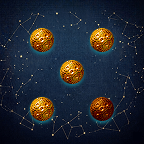
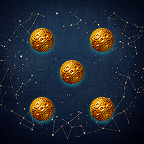
feat: add Dragon dice skin with score-256 unlock condition
- Register dragon skin in dice-skins.js, dice.js, i18n.js
- Add unlockAtExactScore condition: unlock when player finishes with exactly 256 points
- Track score-based achievements in stats.achievements (server-side)
- Pass achievements to skin selector (app.js)
- Update dragon die image (Group 18.png)

Changed region(s): [[0.6111, 0.6667, 0.8056, 0.8611]]

diff --git a/js/dice-skins.js b/js/dice-skins.js
@@ -29,7 +29,8 @@
     { id: 'carbon',    name: 'Carbon',    unlockAt: -1, unlockBy: 'gambler' },
     { id: 'wave',      name: 'Wave',      unlockAt: -1, unlockBy: 'wave' },
     { id: 'fire',      name: 'Fire',      unlockAt: -1, unlockAtStreak: 5 },
-    { id: 'star',      name: 'Star',      unlockAt: -1, unlockAtBotWinsTotal: 100 }
+    { id: 'star',      name: 'Star',      unlockAt: -1, unlockAtBotWinsTotal: 100 },
+    { id: 'dragon',    name: 'Dragon',    unlockAt: -1, unlockAtExactScore: 256 }
   ];
 
   // Calligraphy characters for Crimson skin
@@ -44,15 +45,15 @@
     return SKIN_DEFS[0];
   }
 
-  function getUnlockedCount(totalGames, botWins, totalWins, maxStreak) {
+  function getUnlockedCount(totalGames, botWins, totalWins, maxStreak, achievements) {
     var count = 0;
     for (var i = 0; i < SKIN_DEFS.length; i++) {
-      if (isSkinUnlocked(SKIN_DEFS[i], totalGames, botWins, totalWins, maxStreak)) count++;
+      if (isSkinUnlocked(SKIN_DEFS[i], totalGames, botWins, totalWins, maxStreak, achievements)) count++;
     }
     return count;
   }
 
-  function isSkinUnlocked(def, totalGames, botWins, totalWins, maxStreak) {
+  function isSkinUnlocked(def, totalGames, botWins, totalWins, maxStreak, achievements) {
     if (def.unlockBy) {
       var wins = (botWins && botWins[def.unlockBy]) || 0;
       return wins >= BOT_WIN_THRESHOLD;
@@ -68,12 +69,15 @@
     if (def.unlockAtStreak) {
       return (maxStreak || 0) >= def.unlockAtStreak;
     }
+    if (def.unlockAtExactScore) {
+      return !!(achievements && achievements['score' + def.unlockAtExactScore]);
+    }
     return totalGames >= def.unlockAt;
   }
 
-  function isUnlocked(skinId, totalGames, botWins, totalWins, maxStreak) {
+  function isUnlocked(skinId, totalGames, botWins, totalWins, maxStreak, achievements) {
     var def = getSkinDef(skinId);
-    return isSkinUnlocked(def, totalGames, botWins, totalWins, maxStreak);
+    return isSkinUnlocked(def, totalGames, botWins, totalWins, maxStreak, achievements);
   }
 
   function applySkin(skinId) {
@@ -128,13 +132,14 @@
     if (callback) callback(cached || 'classic');
   }
 
-  function renderSkinSelector(containerEl, totalGames, botWins, totalWins, maxStreak, currentStreak) {
+  function renderSkinSelector(containerEl, totalGames, botWins, totalWins, maxStreak, currentStreak, achievements) {
     if (!containerEl) return;
     totalGames = totalGames || 0;
     totalWins = totalWins || 0;
     botWins = botWins || {};
     maxStreak = maxStreak || 0;
     currentStreak = currentStreak || 0;
+    achievements = achievements || {};
 
     var playContainer = document.getElementById('skin-options-play');
     var botContainer = document.getElementById('skin-options-bot');
@@ -144,16 +149,16 @@
     playContainer.innerHTML = '';
     botContainer.innerHTML = '';
 
-    var unlockedCount = getUnlockedCount(totalGames, botWins, totalWins, maxStreak);
+    var unlockedCount = getUnlockedCount(totalGames, botWins, totalWins, maxStreak, achievements);
     var countEl = document.getElementById('skin-unlock-count');
     if (countEl) {
       var I18n = window.YachtGame.I18n;
-      countEl.textContent = (unlockedCount - 1) + '/11 ' + (I18n ? I18n.t('skin_unlocked_count') : 'unlocked');
+      countEl.textContent = (unlockedCount - 1) + '/12 ' + (I18n ? I18n.t('skin_unlocked_count') : 'unlocked');
     }
 
     for (var i = 0; i < SKIN_DEFS.length; i++) {
       var def = SKIN_DEFS[i];
-      var unlocked = isSkinUnlocked(def, totalGames, botWins, totalWins, maxStreak);
+      var unlocked = isSkinUnlocked(def, totalGames, botWins, totalWins, maxStreak, achievements);
       var targetContainer = (def.unlockBy || def.unlockAtBotWinsTotal) ? botContainer : playContainer;
 
       var option = document.createElement('div');
@@ -192,6 +197,12 @@
         img.className = 'fire-preview';
         img.alt = 'Fire 5';
         miniDie.appendChild(img);
+      } else if (def.id === 'dragon') {
+        var img = document.createElement('img');
+        img.src = 'die_image/dragon/Group 13.png';
+        img.className = 'dragon-preview';
+        img.alt = 'Dragon 1';
+        miniDie.appendChild(img);
       } else {
         // Render 5 pips in mini format
         var pipPositions = [1, 3, 5, 7, 9]; // value 5 layout
@@ -228,6 +239,8 @@
           var botTotal = 0;
           if (botWins) { for (var bk in botWins) { if (botWins.hasOwnProperty(bk)) botTotal += botWins[bk]; } }
           progressEl.textContent = (I18n ? I18n.t('skin_bot_total') : 'Bot') + ' ' + botTotal + '/' + def.unlockAtBotWinsTotal + ' ' + (I18n ? I18n.t('skin_wins_count') : 'wins');
+        } else if (def.unlockAtExactScore) {
+          progressEl.textContent = (I18n ? I18n.t('skin_exact_score') : 'Score') + ' ' + def.unlockAtExactScore;
         } else if (def.unlockAtStreak) {
           progressEl.textContent = currentStreak + '/' + def.unlockAtStreak + ' ' + (I18n ? I18n.t('skin_streak') : 'streak');
         } else if (def.unlockAtWins) {
@@ -274,6 +287,9 @@
       html += '<img class="wave-preview" src="die_image/wave/wave' + value + '.png" alt="Wave ' + value + '">';
     } else if (skinId === 'fire') {
       html += '<img class="fire-preview" src="die_image/fire/fire' + value + '.png" alt="Fire ' + value + '">';
+    } else if (skinId === 'dragon') {
+      var DRAGON_CUBE_FILES = { 1: 'Group 13', 2: 'Group 15', 3: 'Group 16', 4: 'Group 17', 5: 'Group 18', 6: 'Group 19' };
+      html += '<img class="dragon-preview" src="die_image/dragon/' + DRAGON_CUBE_FILES[value] + '.png" alt="Dragon ' + value + '">';
     } else {
       var positions = MINI_PIP_LAYOUTS[value] || [];
       for (var p = 1; p <= 9; p++) {

diff --git a/functions/index.js b/functions/index.js
@@ -803,6 +803,11 @@ async function saveBotResult(uid, gameMode, botDifficulty, myScore, oppScore, re
         else stats.ties = (stats.ties || 0) + 1;
         stats.currentStreak = 0;
       }
+      // Score-based achievements
+      if (myScore === 256) {
+        if (!stats.achievements) stats.achievements = {};
+        stats.achievements.score256 = true;
+      }
       return stats;
     });
   }
@@ -972,6 +977,11 @@ exports.onGameFinished = functions.region("asia-southeast1")
             if (result === "loss") stats.losses = (stats.losses || 0) + 1;
             else stats.ties = (stats.ties || 0) + 1;
             stats.currentStreak = 0;
+          }
+          // Score-based achievements
+          if (myTotal === 256) {
+            if (!stats.achievements) stats.achievements = {};
+            stats.achievements.score256 = true;
           }
           return stats;
         });

diff --git a/js/dice.js b/js/dice.js
@@ -85,6 +85,17 @@
       return;
     }
 
+    // Dragon skin: show image instead of pips
+    if (DiceSkins && DiceSkins.getCurrentSkin() === 'dragon') {
+      var DRAGON_FILES = { 1: 'Group 13', 2: 'Group 15', 3: 'Group 16', 4: 'Group 17', 5: 'Group 18', 6: 'Group 19' };
+      var img = document.createElement('img');
+      img.src = 'die_image/dragon/' + DRAGON_FILES[value] + '.png';
+      img.className = 'dragon-die-img';
+      img.alt = value;
+      dieEl.appendChild(img);
+      return;
+    }
+
     var layout = PIP_LAYOUTS[value];
     for (var i = 1; i <= 9; i++) {
       var pip = document.createElement('div');

diff --git a/js/i18n.js b/js/i18n.js
@@ -36,6 +36,7 @@
       skin_bot_total: 'Bot',
       skin_vs_bot: 'vs',
       skin_streak: 'streak',
+      skin_exact_score: 'Score',
       my_stats: '\uD83D\uDCCA Stats',
       back_to_login: 'Back to Login',
       feedback: 'Feedback',
@@ -297,6 +298,7 @@
       skin_bot_total: '\uBD07',
       skin_vs_bot: 'vs',
       skin_streak: '\uc5f0\uc2b9',
+      skin_exact_score: '\uc810\uc218',
       my_stats: '\uD83D\uDCCA \ub0b4 \uc804\uc801',
       back_to_login: '\ub85c\uadf8\uc778\uc73c\ub85c \ub3cc\uc544\uac00\uae30',
       feedback: '\ud53c\ub4dc\ubc31',

diff --git a/js/app.js b/js/app.js
@@ -274,8 +274,9 @@
       var botWins = (stats && stats.botWins) || {};
       var maxStreak = (stats && stats.maxStreak) || 0;
       var currentStreak = (stats && stats.currentStreak) || 0;
+      var achievements = (stats && stats.achievements) || {};
       if (skinSelector) skinSelector.hidden = false;
-      DiceSkins.renderSkinSelector(skinSelector, totalGames, botWins, totalWins, maxStreak, currentStreak);
+      DiceSkins.renderSkinSelector(skinSelector, totalGames, botWins, totalWins, maxStreak, currentStreak, achievements);
     });
   }
 
